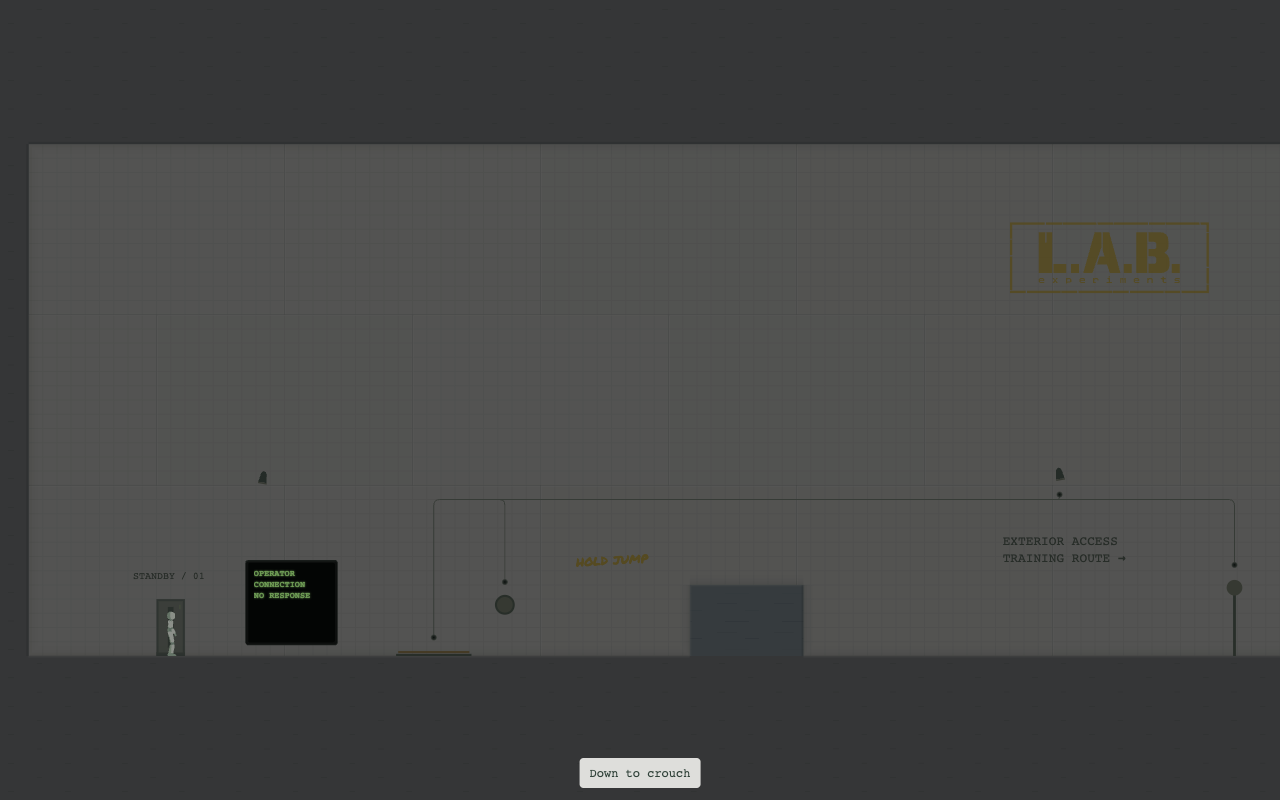
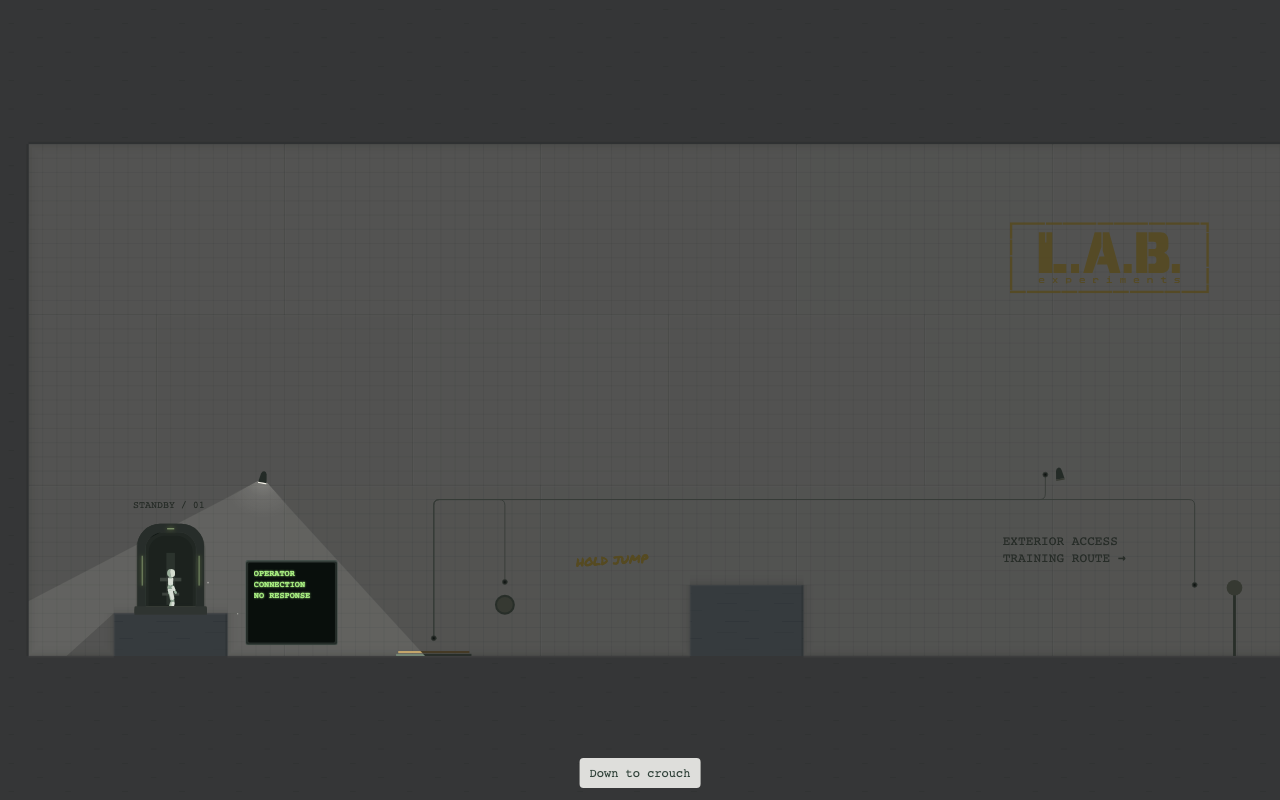
Give Wake a raised charging pod and staged awakening
Enclose the robot behind split glass and a foreground sill, restore pod power before release, and ease from a close opening view into the room. Keep the pod’s planted start and short hop down on ordinary terrain.

Update authoring bounds, pause/restart and route coverage, campaign guidance, and the latest built-in level edits.

diff --git a/src/games/jumping/goal.ts b/src/games/jumping/goal.ts
@@ -5,6 +5,8 @@ import type { Platform, Player } from './model.ts'
 import { moveBody } from './geometry.ts'
 import { staticContactWorld, translatePlayer } from './playerContacts.ts'
 import type { ContactWorld } from './playerContacts.ts'
+import { ambientPaint, paintNormally } from './worldPaint.ts'
+import type { WorldPaint } from './worldPaint.ts'
 /** Retain the legacy assembly origin so existing doors and indicators never move. */
 export interface Goal extends NamedObject, SwitchSettings { x: number; y: number; flipX?: boolean; id?: string; power?: PowerMode }
 export const GOAL_POLE_OFFSET = 44
@@ -20,10 +22,12 @@ export const ENTRANCE_REVEAL_SECONDS = .35
 export const ENTRANCE_WALK_SECONDS = .7
 export const ENTRANCE_HOLD_SECONDS = 1.05
 export const ENTRANCE_SECONDS = ENTRANCE_HOLD_SECONDS + GOAL_OPEN_SECONDS
-export const AWAKENING_SECONDS = 2.2
+export const AWAKENING_SECONDS = 3.6
 export interface EntranceAnimation { elapsed: number; player: Player; fromX: number; toX: number; kind?: 'charging-bay' }
 export const entranceDuration = (entrance: Pick<EntranceAnimation, 'kind'>) => entrance.kind === 'charging-bay' ? AWAKENING_SECONDS : ENTRANCE_SECONDS
-export const awakeningProgress = (elapsed: number) => goalEase((elapsed - .55) / 1.3)
+export const awakeningPower = (elapsed: number) => goalEase((elapsed - .45) / .7)
+export const awakeningProgress = (elapsed: number) => goalEase((elapsed - 1) / 1.35)
+export const chargingBayOpening = (elapsed: number) => goalEase((elapsed - 2.25) / 1)
 export const entranceVisibility = (elapsed: number) => goalEase(elapsed / ENTRANCE_REVEAL_SECONDS)
 export const entrancePosition = (entrance: EntranceAnimation) => entrance.fromX + (entrance.toX - entrance.fromX) * goalEase(entrance.elapsed / ENTRANCE_WALK_SECONDS)
 export function createEntranceAnimation(player: Player, platforms: readonly Platform[], entrance?: Entrance): EntranceAnimation {
@@ -46,14 +50,65 @@ export const entranceDoor = (entrance: Entrance) => ({ x: entrance.x - GOAL_DOOR
   y: entrance.y - GOAL_DOOR_HEIGHT, w: GOAL_DOOR_WIDTH, h: GOAL_DOOR_HEIGHT })
 export const entranceOpening = (elapsed: number) => 1 - Math.max(0, (elapsed - ENTRANCE_HOLD_SECONDS) / GOAL_OPEN_SECONDS)
 
-/** Installed back-wall hardware; the robot uses its normal articulated rig. */
+/** Artwork extends around the clear 40-by-80 start; it adds no collision. */
+export const chargingBayBounds = ({ x, y }: Entrance) => ({ x: x - 51, y: y - 126, w: 102, h: 126 })
+export const entranceBounds = (entrance: Entrance) => entrance.kind === 'charging-bay' ? chargingBayBounds(entrance) : entranceDoor(entrance)
+
+/** A substantial capsule shell and dark, recessed charging cradle. */
 export function drawChargingBay(ctx: CanvasRenderingContext2D, entrance: Entrance) {
   const { x, y } = entrance
-  ctx.fillStyle = '#87958b'; ctx.fillRect(x - 20, y - 80, 40, 80)
-  ctx.fillStyle = '#a9b3a6'; ctx.fillRect(x - 17, y - 77, 34, 74)
-  ctx.fillStyle = '#76877b'; ctx.fillRect(x - 4, y - 69, 8, 57)
-  ctx.fillStyle = '#87958b'; ctx.fillRect(x - 20, y - 5, 40, 5)
-  ctx.fillStyle = '#b9cda7'; ctx.fillRect(x + 12, y - 72, 2, 6)
+  ctx.save(); ctx.translate(x, y)
+  ctx.fillStyle = '#25372e30'; ctx.beginPath(); ctx.roundRect(-49, -124, 98, 124, [34, 34, 8, 8]); ctx.fill()
+  ctx.fillStyle = '#718178'; ctx.beginPath(); ctx.roundRect(-47, -126, 94, 124, [32, 32, 7, 7]); ctx.fill()
+  ctx.strokeStyle = '#a5b1a5'; ctx.lineWidth = 1
+  ctx.beginPath(); ctx.roundRect(-45.5, -124.5, 91, 120, [31, 31, 6, 6]); ctx.stroke()
+  ctx.fillStyle = '#34463d'; ctx.beginPath(); ctx.roundRect(-36, -114, 72, 109, [25, 25, 4, 4]); ctx.fill()
+  ctx.fillStyle = '#24362e'; ctx.beginPath(); ctx.roundRect(-31, -109, 62, 101, [23, 23, 3, 3]); ctx.fill()
+  // The back spine and contacts explain what held the sleeping robot here.
+  ctx.fillStyle = '#50665a'; ctx.fillRect(-6, -85, 12, 73)
+  ctx.fillStyle = '#829587'; ctx.fillRect(-15, -50, 30, 5); ctx.fillRect(-12, -29, 24, 4)
+  ctx.fillStyle = '#53675b'; ctx.fillRect(-42, -84, 3, 66); ctx.fillRect(39, -84, 3, 66)
+  ctx.fillStyle = '#34463d'; ctx.beginPath(); ctx.roundRect(-10, -121, 20, 5, 2); ctx.fill()
+  ctx.fillStyle = '#87958b'; ctx.beginPath(); ctx.roundRect(-51, -7, 102, 7, [2, 2, 0, 0]); ctx.fill()
+  ctx.fillStyle = '#b0b9ac'; ctx.fillRect(-40, -7, 80, 1)
+  ctx.restore()
+}
+
+/** Closed glass sits over the waking actor; the released cover stays on the wall. */
+export function drawChargingBayCover(ctx: CanvasRenderingContext2D, entrance: Entrance, elapsed = AWAKENING_SECONDS, paint: WorldPaint = paintNormally, nightMode = false) {
+  const { x, y } = entrance, opening = chargingBayOpening(elapsed), power = awakeningPower(elapsed)
+  ambientPaint(paint)(ctx, 0, () => {
+    ctx.save(); ctx.translate(x, y)
+    ctx.beginPath(); ctx.roundRect(-36, -114, 72, 107, [25, 25, 3, 3]); ctx.clip()
+    for (const side of [-1, 1]) {
+      ctx.save(); ctx.translate(side * opening * 35, 0)
+      const left = side < 0 ? -36 : 0
+      ctx.beginPath(); ctx.rect(left, -114, 36, 107); ctx.clip()
+      ctx.fillStyle = '#7d9e8f99'; ctx.fillRect(left, -114, 36, 107)
+      ctx.fillStyle = '#c7d8c736'; ctx.beginPath()
+      ctx.moveTo(26, -114); ctx.lineTo(39, -114); ctx.lineTo(-27, -7); ctx.lineTo(-40, -7); ctx.closePath(); ctx.fill()
+      ctx.fillStyle = '#b6cdb9b0'; ctx.fillRect(side < 0 ? -1.5 : .5, -108, 1, 98)
+      ctx.restore()
+    }
+    ctx.restore()
+    // A front bezel and sill overlap the silhouette: the feet sit inside the
+    // cradle instead of on the outside edge of a flat background panel.
+    ctx.save(); ctx.translate(x, y)
+    ctx.fillStyle = '#718178'; ctx.beginPath()
+    ctx.roundRect(-47, -126, 94, 124, [32, 32, 7, 7])
+    ctx.roundRect(-36, -114, 72, 104, [25, 25, 3, 3]); ctx.fill('evenodd')
+    ctx.fillStyle = '#87958b'; ctx.beginPath(); ctx.roundRect(-51, -10, 102, 12, [2, 2, 0, 0]); ctx.fill()
+    ctx.fillStyle = '#9eac9c'; ctx.fillRect(-35, -10, 70, 1)
+    ctx.restore()
+  }, false, chargingBayBounds(entrance))
+  paint(ctx, .65, () => {
+    ctx.save(); ctx.globalAlpha *= power
+    ctx.fillStyle = '#b9d69b'
+    if (nightMode) { ctx.shadowColor = '#a9d56b'; ctx.shadowBlur = 4 }
+    ctx.fillRect(x - 5, y - 120, 10, 2)
+    for (const side of [-1, 1]) ctx.fillRect(x + side * 40 - .75, y - 81, 1.5, 42)
+    ctx.restore()
+  }, false, { x: x - 46, y: y - 125, w: 92, h: 93 })
 }
 
 export const goalPoleX = (goal: Goal) => goal.x + (goal.flipX ? -1 : 1) * GOAL_POLE_OFFSET

diff --git a/src/games/jumping/challengeRender.ts b/src/games/jumping/challengeRender.ts
@@ -7,7 +7,7 @@ import { drawWallTexts } from './wallText.ts'
 import { drawAthlete, drawCheckpointMarkers, drawClimbables, drawTerrain } from './render.ts'
 import type { Prop, RobotState, Run, MechanismState } from './challenge.ts'
 import type { Goal } from './goal.ts'
-import { GOAL_LIGHT_HEIGHT, GOAL_OPEN_SECONDS, awakeningProgress, drawDoorway, entranceDoor, entranceOpening, entranceVisibility, goalDoor, goalEase, goalPoleX } from './goal.ts'
+import { GOAL_LIGHT_HEIGHT, GOAL_OPEN_SECONDS, awakeningProgress, chargingBayOpening, drawChargingBayCover, drawDoorway, entranceDoor, entranceOpening, entranceVisibility, goalDoor, goalEase, goalPoleX } from './goal.ts'
 import { awakeningPose } from './athlete.ts'
 import { drawWallTimer } from './wallTimer.ts'
 import { drawPickup, TIME_PENALTY_COLOR } from './pickups.ts'
@@ -189,7 +189,7 @@ export function drawPuzzleWorld(ctx: CanvasRenderingContext2D, run: Run, editor 
   for (const [i, r] of run.robots.entries()) drawRobot(ctx, r, run.activeTime, r.seesPlayer, run.empRemaining === 0, paint, lights.find(light => light.robot === i)?.fade ?? 0)
   if (!run.started && run.entrance && !editor) {
     const entrance = run.entrance, waking = entrance.kind === 'charging-bay'
-    ctx.save(); ctx.globalAlpha *= waking ? 1 : entranceVisibility(entrance.elapsed)
+    ctx.save(); ctx.globalAlpha *= waking ? .45 + .55 * chargingBayOpening(entrance.elapsed) : entranceVisibility(entrance.elapsed)
     paint(ctx, playerExposure, () => drawAthlete(ctx, entrance.player, playerInk, waking ? awakeningPose(entrance.player, awakeningProgress(entrance.elapsed)) : undefined)); ctx.restore()
   }
   else if (run.exit) {
@@ -200,6 +200,8 @@ export function drawPuzzleWorld(ctx: CanvasRenderingContext2D, run: Run, editor 
     drawMovementEffects(ctx, p, paint)
     paint(ctx, playerExposure, () => drawAthlete(ctx, p, playerInk))
   }
+  if (level.entrance.kind === 'charging-bay')
+    drawChargingBayCover(ctx, level.entrance, editor ? undefined : run.entrance?.elapsed, paint, nightModeEnabled(level.lighting))
   const waterSurface = run.waterSurface?.enabled === false ? undefined : run.waterSurface
   for (const plate of run.water.plates) drawWaterRegion(ctx, plate, paint, waterSurface, run.waterSpaces.get(plate))
   if (waterSurface) drawWaterSurfaceDetails(ctx, waterSurface, paint)

diff --git a/src/games/jumping/editor.ts b/src/games/jumping/editor.ts
@@ -11,7 +11,7 @@ import { platformSurface } from './terrain.ts'
 import { nearestBoundary, pointInside, polygonPoints, validPolygon } from './geometry.ts'
 import type { Vec } from './geometry.ts'
 import { ropePath, ropeSegmentCount } from './climbables.ts'
-import { entranceDoor, GOAL_DOOR_HEIGHT, GOAL_DOOR_WIDTH, goalBounds } from './goal.ts'
+import { entranceBounds, GOAL_DOOR_HEIGHT, GOAL_DOOR_WIDTH, goalBounds } from './goal.ts'
 import { removeSwitchTarget, switchedItems, switchSources, wallWiringItems } from './switchPower.ts'
 import { waterControlId } from './waterLevel.ts'
 import type { PlateBehavior, PowerMode, SwitchLogic, SwitchSettings } from './switchPower.ts'
@@ -180,7 +180,7 @@ export function itemBounds(level: JumpLevel, selection: Selection) {
   return p ? { x: p.x, y: p.y, w: 0, h: 0 } : null
 }
 export function itemOutline(level: JumpLevel, selection: Selection) {
-  if (selection.kind === 'entrance') return entranceDoor(level.entrance)
+  if (selection.kind === 'entrance') return entranceBounds(level.entrance)
   if (selection.kind === 'goal' && level.goal) return goalBounds(level.goal)
   if (selection.kind === 'text') return level.texts?.[selection.index] ? wallTextBounds(level.texts[selection.index]) : null
   const robot = selection.kind === 'robot' ? level.robots?.[selection.index] : undefined
@@ -383,7 +383,7 @@ export function hitItem(level: JumpLevel, x: number, y: number, tolerance: numbe
     const b = logicRelayBounds(level.logicRelays![i])
     if (x >= b.x - tolerance && x <= b.x + b.w + tolerance && y >= b.y - tolerance && y <= b.y + b.h + tolerance) return { kind: 'logic-relay', index: i }
   }
-  const entrance = entranceDoor(level.entrance)
+  const entrance = entranceBounds(level.entrance)
   if (x >= entrance.x - tolerance && x <= entrance.x + entrance.w + tolerance && y >= entrance.y - tolerance && y <= entrance.y + entrance.h + tolerance) return { kind: 'entrance', index: 0 }
   for (let i = level.checkpoints.length - 1; i >= 0; i--) if (Math.hypot(x - level.checkpoints[i].x, y - level.checkpoints[i].y + 25) < tolerance * 3) return { kind: 'checkpoint', index: i }
   if (level.goal) {

diff --git a/src/games/jumping/camera.ts b/src/games/jumping/camera.ts
@@ -3,6 +3,8 @@ import type { Player } from './model.ts'
 import { levelHeight } from './level.ts'
 import type { JumpLevel } from './level.ts'
 import { playerTurnAngle } from './ropeGravity.ts'
+import { AWAKENING_SECONDS, goalEase } from './goal.ts'
+import type { EntranceAnimation } from './goal.ts'
 export const LEVEL_BOTTOM_PADDING = 32
 
 function verticalCamera(height: number, zoom: number, center: number, roomHeight: number) {
@@ -34,6 +36,23 @@ export function gameCamera(width: number, height: number, p: Player, level: Jump
   const ahead = Math.max(-leadLimit, Math.min(leadLimit, lookAhead))
   const cameraX = level.width < half * 2 - 80 ? level.width / 2 : Math.max(half - 40, Math.min(level.width - half + 40, centerX + ahead))
   return { zoom, x: cameraX - half, y: verticalCamera(height, zoom, center, levelHeight(level)) }
+}
+
+/** Hold on the occupied pod, then quietly reveal the room before control starts. */
+export function awakeningCamera(view: ReturnType<typeof gameCamera>, width: number, height: number, entrance?: EntranceAnimation | null) {
+  if (entrance?.kind !== 'charging-bay') return view
+  const reveal = goalEase((entrance.elapsed - 1.5) / (AWAKENING_SECONDS - 1.5))
+  if (reveal >= 1) return view
+  const closeZoom = Math.max(view.zoom, Math.min(1.65, width / 360, height / 300))
+  const closeX = Math.max(-40, entrance.player.x + 85 - width / closeZoom / 2)
+  const zoom = closeZoom + (view.zoom - closeZoom) * reveal
+  // Blend the robot's screen position, so the floor never dips out of frame
+  // as the visible world grows during the pullback.
+  const fromX = (entrance.player.x - closeX) * closeZoom
+  const toX = (entrance.player.x - view.x) * view.zoom
+  const toY = (entrance.player.y - view.y) * view.zoom
+  return { zoom, x: entrance.player.x - (fromX + (toX - fromX) * reveal) / zoom,
+    y: entrance.player.y - (height * .76 + (toY - height * .76) * reveal) / zoom }
 }
 
 /** Presentation state belongs to the view, so sampling a camera never changes

diff --git a/src/games/jumping/lightingRender.ts b/src/games/jumping/lightingRender.ts
@@ -3,7 +3,7 @@ import { nightModeEnabled } from './ambientLight.ts'
 import { DAY_AMBIENT_EXPOSURE, daylightShadowPolygons } from './daylight.ts'
 import { drawPuzzleWorld } from './challengeRender.ts'
 import { NIGHT_PLAYER_COLOR, withAthletePose } from './athlete.ts'
-import { awakeningProgress, drawDoorway, entranceDoor, entranceOpening, entranceVisibility, goalBounds } from './goal.ts'
+import { awakeningProgress, chargingBayOpening, drawChargingBayCover, drawDoorway, entranceDoor, entranceOpening, entranceVisibility, goalBounds } from './goal.ts'
 import { awakeningPose } from './athlete.ts'
 import { airBoostStrength } from './model.ts'
 import { drawAthlete, drawCheckpointMarkers, drawClimbables, drawLevelBackdrop, drawMovementEffects, drawTerrain } from './render.ts'
@@ -205,12 +205,14 @@ export class LightingRenderer {
         })
         if (run.entrance && !editor) {
           const entrance = run.entrance, waking = entrance.kind === 'charging-bay'
-          ctx.save(); ctx.globalAlpha *= waking ? 1 : entranceVisibility(entrance.elapsed)
+          ctx.save(); ctx.globalAlpha *= waking ? .45 + .55 * chargingBayOpening(entrance.elapsed) : entranceVisibility(entrance.elapsed)
           paint(ctx, playerExposure, () => drawAthlete(ctx, entrance.player, ink, waking ? awakeningPose(entrance.player, awakeningProgress(entrance.elapsed)) : undefined)); ctx.restore()
         } else {
           drawMovementEffects(ctx, run.player, paint)
           paint(ctx, playerExposure, () => drawAthlete(ctx, run.player, ink))
         }
+        if (run.level.entrance.kind === 'charging-bay')
+          drawChargingBayCover(ctx, run.level.entrance, editor ? undefined : run.entrance?.elapsed, paint, nightMode)
       }
     }
     ctx.restore()

diff --git a/src/games/UntitledJumpingGame.tsx b/src/games/UntitledJumpingGame.tsx
@@ -5,7 +5,7 @@ import { lightingForLevel } from './jumping/lightingDefinition'
 import { AccountSurface } from '../accounts/AccountSurface'
 import { useCloudDownloads } from '../accounts/useCloudDownloads'
 import { playgroundLightingWorld } from './jumping/lightingModel'
-import { GameCamera } from './jumping/camera'
+import { awakeningCamera, GameCamera } from './jumping/camera'
 import { levelTerrain } from './jumping/level'
 import { useEffect, useEffectEvent, useLayoutEffect, useRef, useState, useSyncExternalStore, lazy, Suspense } from 'react'
 import { useLocation, useNavigate } from 'react-router-dom'
@@ -488,7 +488,9 @@ function JumpingGameSession({ initialCatalog, stressCatalog, onExit }: { initial
       ctx.setTransform(ratio, 0, 0, ratio, 0, 0)
       // Fractional render scales round the backing dimensions to whole pixels.
       // Frame against the drawable area so rounding cannot shift the view.
-      const camera = gameCamera.view(canvas.width / ratio, canvas.height / ratio, player.current, level, !!run.current, dt)
+      const viewWidth = canvas.width / ratio, viewHeight = canvas.height / ratio
+      const camera = awakeningCamera(gameCamera.view(viewWidth, viewHeight, player.current, level, !!run.current, dt),
+        viewWidth, viewHeight, run.current?.entrance ?? playgroundEntrance.current)
       lightingStats = lightingRenderer.render(ctx, run.current ?? playgroundLightingWorld(level, player.current, playgroundEntrance.current), lightingForLevel(level),
         { ...camera, width: canvas.width, height: canvas.height, zoom: camera.zoom * ratio }, dt)
     }

diff --git a/src/games/jumping/builderPlacement.ts b/src/games/jumping/builderPlacement.ts
@@ -9,7 +9,7 @@ import { placeOnSurface } from './editorPlacement.ts'
 import { createPlayer } from './model.ts'
 import { drawAthlete, drawClimbables, drawTerrain } from './render.ts'
 import { drawGoal, drawGoalDoor, drawMechanism, drawPressurePlate, drawProp, drawRobot } from './challengeRender.ts'
-import { drawChargingBay, drawDoorway, entranceDoor } from './goal.ts'
+import { drawChargingBay, drawChargingBayCover, drawDoorway, entranceDoor } from './goal.ts'
 import { mechanismCornerRadii } from './mechanismAppearance.ts'
 import { drawCoinSwitch } from './coins.ts'
 import { drawPickup } from './pickups.ts'
@@ -69,7 +69,7 @@ export function drawPlacementPreview(ctx: CanvasRenderingContext2D, { level, sel
     case 'text': drawWallTexts(ctx, [level.texts![i]]); break
     case 'pickup': drawPickup(ctx, { definition: level.pickups![i], collectedAge: null }); break
     case 'goal': drawGoalDoor(ctx, level.goal!, 1, true); drawGoal(ctx, level.goal!, true); break
-    case 'entrance': if (level.entrance.kind === 'charging-bay') drawChargingBay(ctx, level.entrance); else drawDoorway(ctx, entranceDoor(level.entrance), 1); break
+    case 'entrance': if (level.entrance.kind === 'charging-bay') { drawChargingBay(ctx, level.entrance); drawChargingBayCover(ctx, level.entrance) } else drawDoorway(ctx, entranceDoor(level.entrance), 1); break
     case 'checkpoint': drawAthlete(ctx, createPlayer(level.checkpoints[i])); break
   }
   const outline = itemOutline(level, selection)

diff --git a/src/games/jumping/render.ts b/src/games/jumping/render.ts
@@ -15,7 +15,7 @@ import { paintNormally } from './worldPaint.ts'
 import type { WorldPaint } from './worldPaint.ts'
 import { drawTerrainAttachment, drawTerrainEdges, drawWallPanels } from './surfaceDepth.ts'
 import { drawWallWiring } from './wallWiring.ts'
-import { drawChargingBay } from './goal.ts'
+import { drawChargingBay, drawChargingBayCover } from './goal.ts'
 
 import { drawAthlete } from './athlete.ts'
 export { drawAthlete } from './athlete.ts'
@@ -121,5 +121,7 @@ export function drawPlayground(ctx: CanvasRenderingContext2D, width: number, hei
   drawLevelBackdrop(ctx, level, { x, y, w: width / zoom, h: height / zoom }, zoom)
   drawTerrain(ctx, levelTerrain(level), level.platforms, level); drawClimbables(ctx, p, level.climbables)
   drawCheckpointMarkers(ctx, p, level)
-  drawMovementEffects(ctx, p); drawAthlete(ctx, p); ctx.restore()
+  drawMovementEffects(ctx, p); drawAthlete(ctx, p)
+  if (level.entrance.kind === 'charging-bay') drawChargingBayCover(ctx, level.entrance)
+  ctx.restore()
 }

diff --git a/src/games/jumping/athlete.ts b/src/games/jumping/athlete.ts
@@ -2669,10 +2669,10 @@ export function awakeningPose(p: Player, progress: number): AthletePose {
   const target = athletePose(p)
   if (progress >= 1) return target
   const from = structuredClone(target)
-  from.waist = [target.waist[0] + 2, target.waist[1] + 1]
-  from.shoulder = [target.shoulder[0] + 4, target.shoulder[1] + 3]
-  from.head = [target.head[0] + 8, target.head[1] + 7]
-  from.headTilt = .65
+  from.waist = [target.waist[0] + 2, target.waist[1] + 2]
+  from.shoulder = [target.shoulder[0] + 6, target.shoulder[1] + 6]
+  from.head = [target.head[0] + 12, target.head[1] + 12]
+  from.headTilt = .95
   from.frontArm = armPose(from.shoulder, .1, .1)
   from.backArm = armPose(from.shoulder, -.12, .1)
   return transferPose(from, target, [0, 0], Math.max(0, progress))

diff --git a/docs/jumping-campaign.md b/docs/jumping-campaign.md
@@ -181,15 +181,20 @@ placed first in the built-in collection. Keep it simple, beautiful, and a little
 spooky: Night mode, one occupied charging bay, a failing work light, a small
 operator terminal, and sparse installed hardware. The terminal reads “OPERATOR
 CONNECTION / NO RESPONSE” in dim green phosphor. Its lettering stays readable
-when the light cuts out. The robot's head and shoulders
-rise using the existing rig before control passes to the player. There is no
+when the light cuts out. The occupied pod has a substantial rounded shell,
+a recessed cradle, and a split glass cover. It stands on a low steel plinth;
+the robot begins inside the pod on that support and its first movement is a
+small hop down to the room floor. The glass and front sill overlap the robot,
+so its sleeping silhouette reads as enclosed within the cradle. A closer
+initial view holds on the sleeping robot: quiet green power returns, its head and shoulders rise using
+the existing rig, and the cover releases. The camera gently reveals the room
+within the 3.6-second awakening before control passes to the player. There is no
 introductory door sequence, timer, medal, required collectible, or new bitmap.
 
 One broad latching floor switch restores the access light and training-route
 exit. Optional thin wall wires with small, separate terminals make those
-relationships visible. A single maintenance step supports a held jump or a
-ledge catch; the continuous floor
-provides local recovery. Missing the switch allows a readable return. Avoid
+relationships visible. After the small hop down from the pod, the room floor
+provides a clear route and easy recovery. Missing the switch allows a readable return. Avoid
 adding more puzzles, props, lore panels, or dramatic effects before reviewing
 this small room at normal speed.
 
@@ -197,6 +202,8 @@ Charging-bay entrances and untimed levels are reusable studio choices with
 pause, restart, automatic input handoff, and saved completion. Ordinary levels
 retain their doorway entrance and scoring. The broader campaign locks remain
 separate work; the current Next level action leads from Wake into the collection.
+
+![The robot enclosed behind the pod glass on its raised plinth as local power returns.](images/lab-wake-pod.png)
 
 ![Wake with its unanswered operator terminal, thin wall wires, and night lighting.](images/lab-wake-opening.png)
 

diff --git a/docs/jumping-levels.md b/docs/jumping-levels.md
@@ -642,12 +642,15 @@ of the open entrance, then the door closes into the wall. The entrance lasts
 automatically as soon as it disappears. Pause freezes the entrance too.
 
 For an awakening, use `entrance: { x, y, kind: "charging-bay" }`. It keeps the
-same supported 40-by-80 footprint and placement rules. A small installed bay
-remains on the back wall, and the existing robot rig raises its head and
-shoulders for 2.2 seconds before control and the world activate automatically.
+same supported 40-by-80 footprint and placement rules. An installed capsule with a rounded shell, recessed cradle, and split glass cover
+remains on the back wall. Over 3.6 seconds, its quiet green power strips return,
+the existing robot rig raises its head and shoulders, and the cover retracts.
+The camera begins closer to the occupied pod and gently reveals the room before
+control and the world activate automatically.
 Pause freezes that sequence; restart repeats it. No doorway is drawn or closed.
 Choose **Object → Entrance → Charging bay** while the entrance is selected;
-**Door** restores the ordinary entrance. Both styles preview, save, and reopen.
+**Door** restores the ordinary entrance. Both styles preview, save, and reopen. The pod has a 102-by-126 artwork outline
+for selection; its collision and start validation keep the clear 40-by-80 footprint.
 
 `timing: "untimed"` makes a finishable level untimed. Enable **Level → Untimed
 level** in the studio. The world and animation time still advance, but the

diff --git a/docs/jumping-level-design.md b/docs/jumping-level-design.md
@@ -256,7 +256,15 @@ and the medal clock activate automatically.
 
 The supported charging-bay entrance gives the campaign's
 [opening](jumping-campaign.md#opening-wake) its awakening, with both feet planted
-and no door sequence. Ordinary entrances retain the doorway contract above.
+and no door sequence. Give that first occupied pod a readable capsule silhouette
+and enough screen space to make the awakening matter. Use a short, clear sequence
+of restored power, the robot waking, and the cover releasing; reveal the room
+before handing over control. Keep its light restrained and its cradle visible
+after departure. Layer the glass and front sill over the robot, including its
+feet, so the occupant reads as inside the capsule rather than standing in front
+of a wall panel. Use an authored, flat steel plinth when the robot should
+step or hop down from the pod; keep that first descent small and recoverable.
+Ordinary entrances retain the doorway contract above.
 The [final outdoor coda](jumping-campaign.md#finale-outside) still needs separate
 runtime support before authoring.
 
